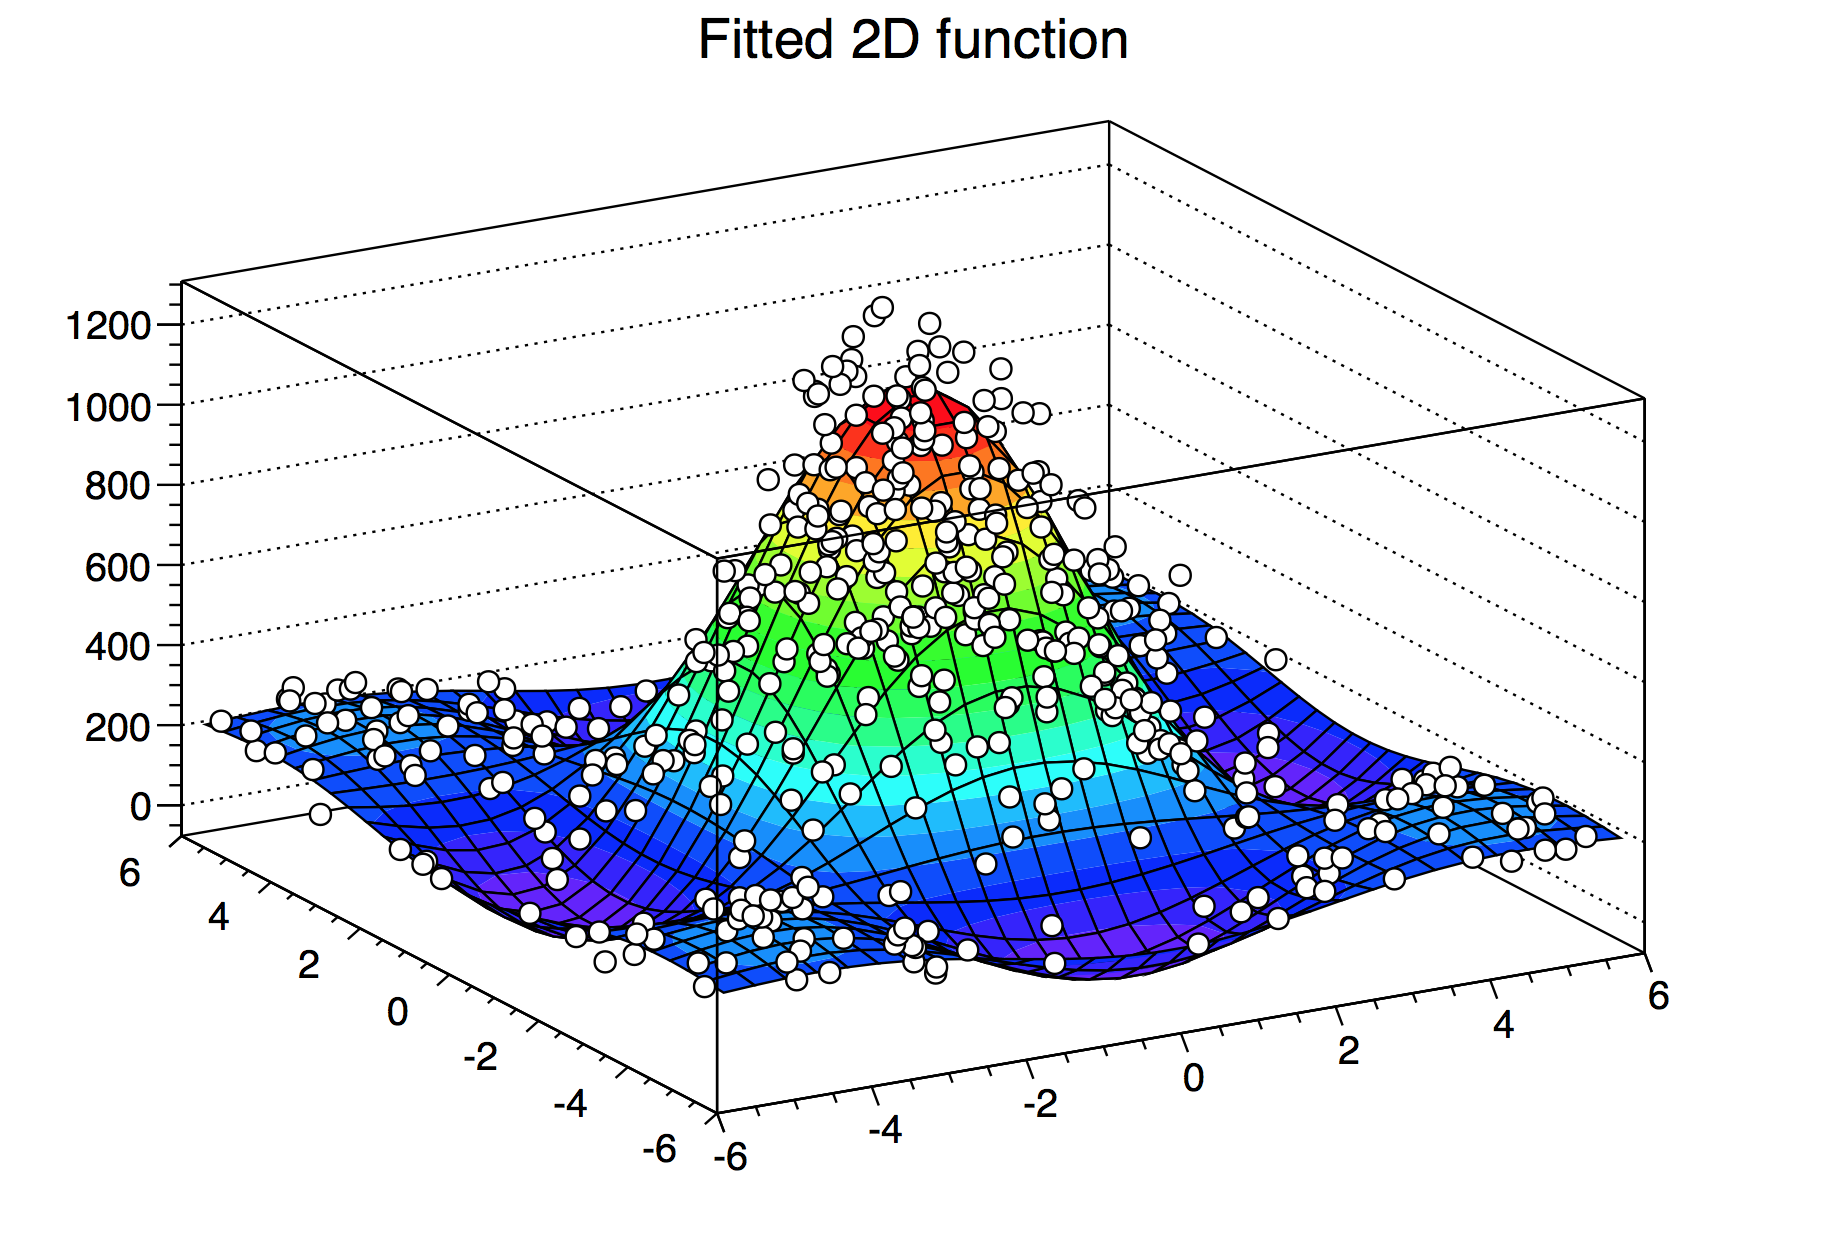
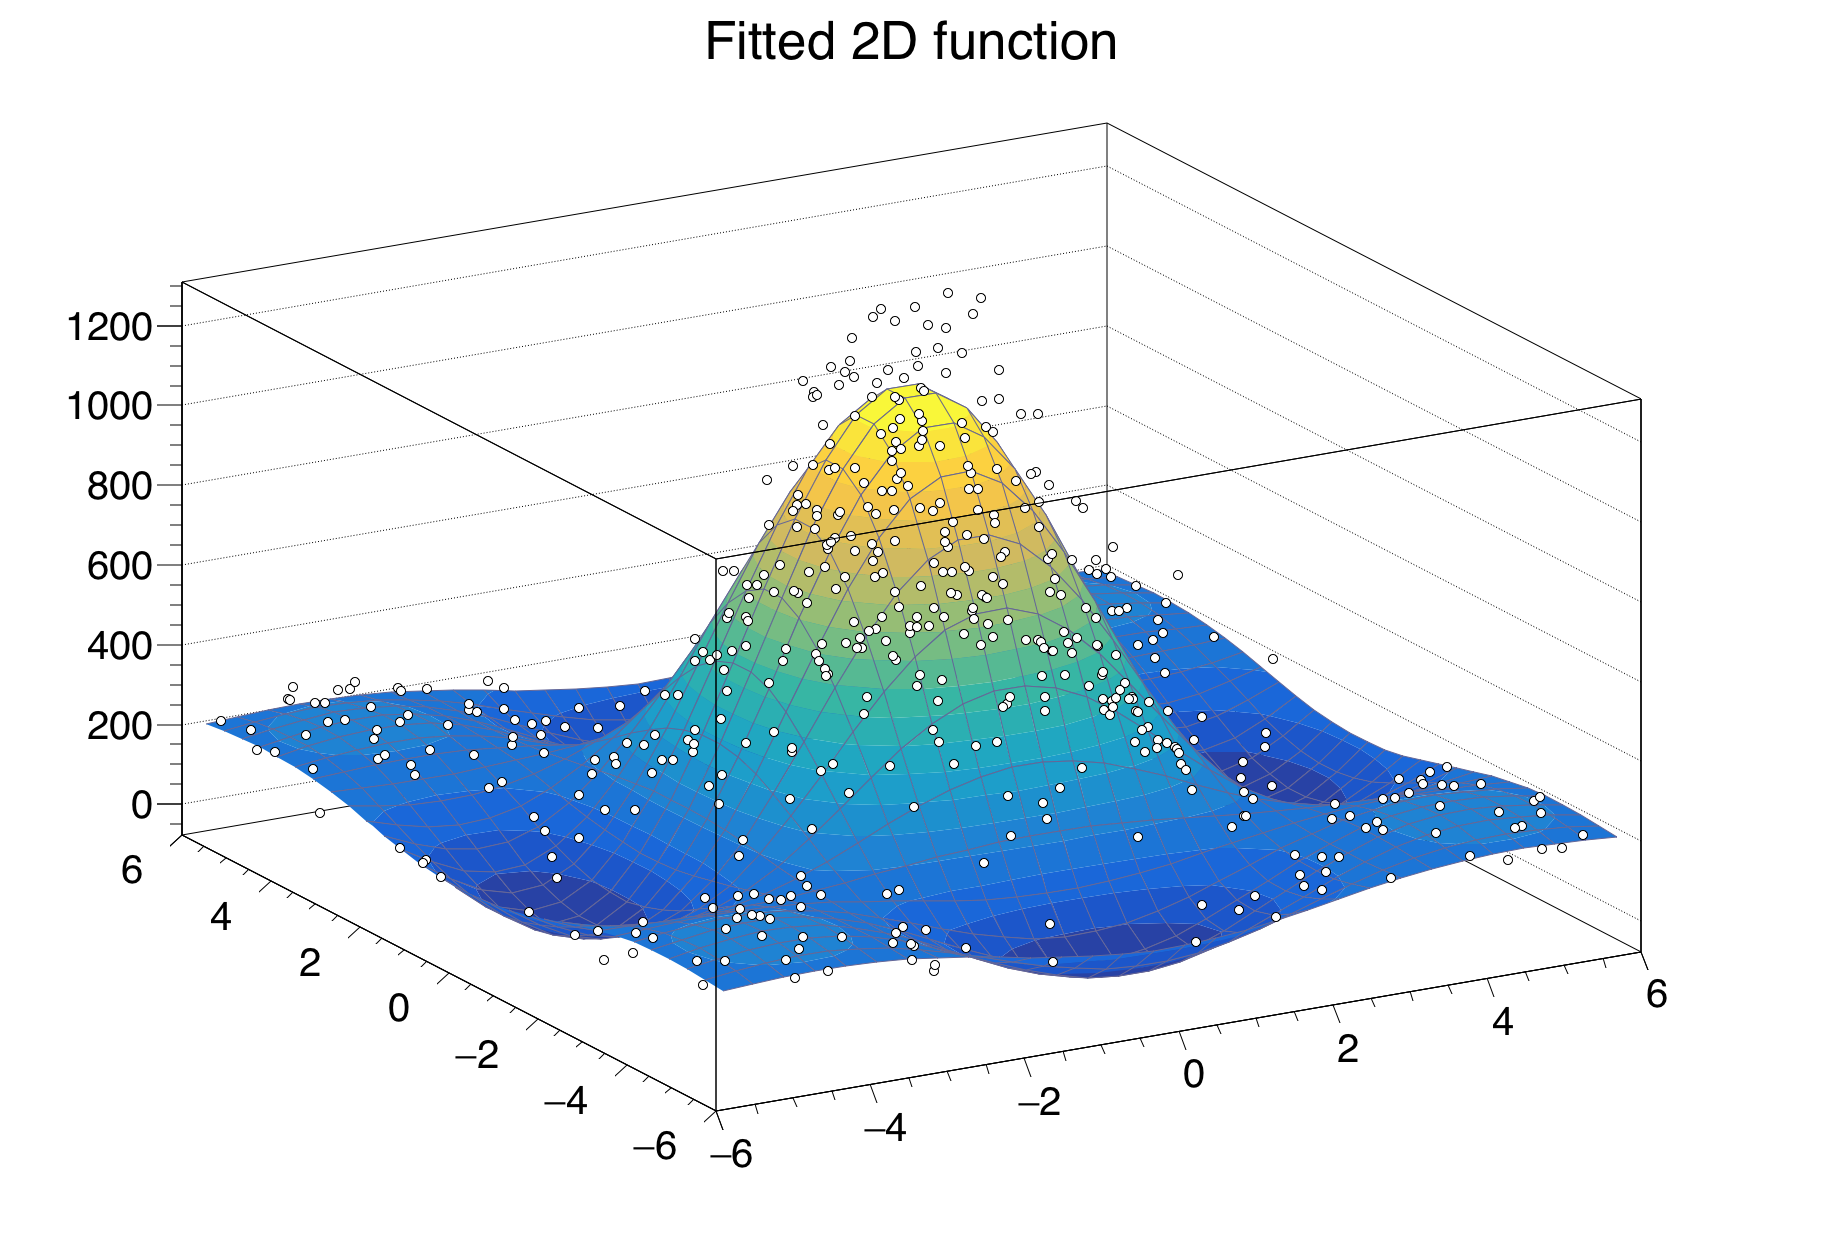
Primer improvements

diff --git a/documentation/primer/macros/macro4.C b/documentation/primer/macros/macro4.C
@@ -1,6 +1,6 @@
 // Create, Draw and fit a TGraph2DErrors
 void macro4(){
-   gStyle->SetPalette(1);
+   gStyle->SetPalette(57);
    const double e = 0.3;
    const int nd = 500;
 
@@ -29,6 +29,8 @@ void macro4(){
    dte->Fit(f2);
    // Plot the result
    TCanvas *c1 = new TCanvas();
+   f2->SetLineWidth(1);
+   f2->SetLineColor(kBlue-5);
    f2->Draw("Surf1");
    dte->Draw("P0 Same");
    // Make the x and y projections

diff --git a/documentation/primer/macros/macro3.C b/documentation/primer/macros/macro3.C
@@ -15,5 +15,5 @@ void macro3(){
     grP1.SetTitle("A Fan");
     grP1.SetLineWidth(3);
     grP1.SetLineColor(2);
-    grP1.DrawClone("AOL");
+    grP1.DrawClone("L");
 }

diff --git a/documentation/primer/graphs.md b/documentation/primer/graphs.md
@@ -112,7 +112,7 @@ macro and the resulting Figure [4.1](#f41):
    grP1.SetTitle("A Fan");
    grP1.SetLineWidth(3);
    grP1.SetLineColor(2);
-   grP1.DrawClone("AOL");
+   grP1.DrawClone("L");
  }
 ```
 
@@ -140,52 +140,56 @@ Mersenne Twister algorithm [@MersenneTwister].
 ``` {.cpp .numberLines}
  // Create, Draw and fit a TGraph2DErrors
  void macro4(){
-    gStyle->SetPalette(1);
-    const double e = 0.3;
-    const int nd = 500;
+   gStyle->SetPalette(57);
+   const double e = 0.3;
+   const int nd = 500;
 
-    TRandom3 my_random_generator;
-    TF2 *f2 = new TF2("f2",
-                     "1000*(([0]*sin(x)/x)*([1]*sin(y)/y))+200",
-                     -6,6,-6,6);
-    f2->SetParameters(1,1);
-    TGraph2DErrors *dte = new TGraph2DErrors(nd);
-    // Fill the 2D graph
-    double rnd, x, y, z, ex, ey, ez;
-    for (Int_t i=0; i<nd; i++) {
-       f2->GetRandom2(x,y);
-       // A random number in [-e,e]
-       rnd = my_random_generator.Uniform(-e,e);
-       z = f2->Eval(x,y)*(1+rnd);
-       dte->SetPoint(i,x,y,z);
-       ex = 0.05*my_random_generator.Uniform();
-       ey = 0.05*my_random_generator.Uniform();
-       ez = TMath::Abs(z*rnd);
-       dte->SetPointError(i,ex,ey,ez);
-    }
-    // Fit function to generated data
-    f2->SetParameters(0.7,1.5);  // set initial values for fit
-    f2->SetTitle("Fitted 2D function");
-    dte->Fit(f2);
-    // Plot the result
-    TCanvas *c1 = new TCanvas();
-    f2->Draw("Surf1");
-    dte->Draw("P0 Same");
-    // Make the x and y projections
-    TCanvas* c_p= new TCanvas("ProjCan",
-                              "The Projections",1000,400);
-    c_p->Divide(2,1);
-    c_p->cd(1);
-    dte->Project("x")->Draw();
-    c_p->cd(2);
-    dte->Project("y")->Draw();
+   TRandom3 my_random_generator;
+   TF2 *f2 = new TF2("f2",
+                    "1000*(([0]*sin(x)/x)*([1]*sin(y)/y))+200",
+                    -6,6,-6,6);
+   f2->SetParameters(1,1);
+   TGraph2DErrors *dte = new TGraph2DErrors(nd);
+   // Fill the 2D graph
+   double rnd, x, y, z, ex, ey, ez;
+   for (Int_t i=0; i<nd; i++) {
+      f2->GetRandom2(x,y);
+      // A random number in [-e,e]
+      rnd = my_random_generator.Uniform(-e,e);
+      z = f2->Eval(x,y)*(1+rnd);
+      dte->SetPoint(i,x,y,z);
+      ex = 0.05*my_random_generator.Uniform();
+      ey = 0.05*my_random_generator.Uniform();
+      ez = TMath::Abs(z*rnd);
+      dte->SetPointError(i,ex,ey,ez);
+   }
+   // Fit function to generated data
+   f2->SetParameters(0.7,1.5);  // set initial values for fit
+   f2->SetTitle("Fitted 2D function");
+   dte->Fit(f2);
+   // Plot the result
+   TCanvas *c1 = new TCanvas();
+   f2->SetLineWidth(1);
+   f2->SetLineColor(kBlue-5);
+   f2->Draw("Surf1");
+   dte->Draw("P0 Same");
+   // Make the x and y projections
+   TCanvas* c_p= new TCanvas("ProjCan",
+                             "The Projections",1000,400);
+   c_p->Divide(2,1);
+   c_p->cd(1);
+   dte->Project("x")->Draw();
+   c_p->cd(2);
+   dte->Project("y")->Draw();
  }
 ```
 
 Let's go through the code, step by step to understand what is going on:
 
 -   Line *3*: This sets the palette colour code to a much nicer one than
-    the default. Comment this line to give it a try.
+    the default. Comment this line to give it a try. See
+    [this article](https://root.cern.ch/drupal/content/rainbow-color-map) about
+    colour map choice.
 
 -   Line *7*: The instance of the random generator. You can then draw
     out of this instance random numbers distributed according to
@@ -193,8 +197,8 @@ Let's go through the code, step by step to understand what is going on:
     lines *27-29*. See the on-line documentation to appreciate the full
     power of this ROOT feature.
 
--   Line *12*: You are already familiar with the `TF1` class. This is
-    its two-dimensional correspondent. At line *24* two random numbers
+-   Line *8*: You are already familiar with the `TF1` class. This is
+    its two-dimensional correspondent. At line *16* two random numbers
     distributed according to the `TF2` formula are drawn with the method
     `TF2::GetRandom2(double& a, double&b)`.
 
@@ -202,11 +206,11 @@ Let's go through the code, step by step to understand what is going on:
     the one-dimensional case, i.e. initialisation of parameters and
     calling of the `Fit()` method.
 
--   Line *32*: The *Surf1* option draws the `TF2` objects (but also
+-   Line *34*: The *Surf1* option draws the `TF2` objects (but also
     bi-dimensional histograms) as coloured surfaces with a wire-frame on
     three-dimensional canvases. See Figure [4.2](#f42).
 
--   Line *37-41*: Here you learn how to create a canvas, partition it in
+-   Line *37-43*: Here you learn how to create a canvas, partition it in
     two sub-pads and access them. It is very handy to show multiple
     plots in the same window or image.
 
